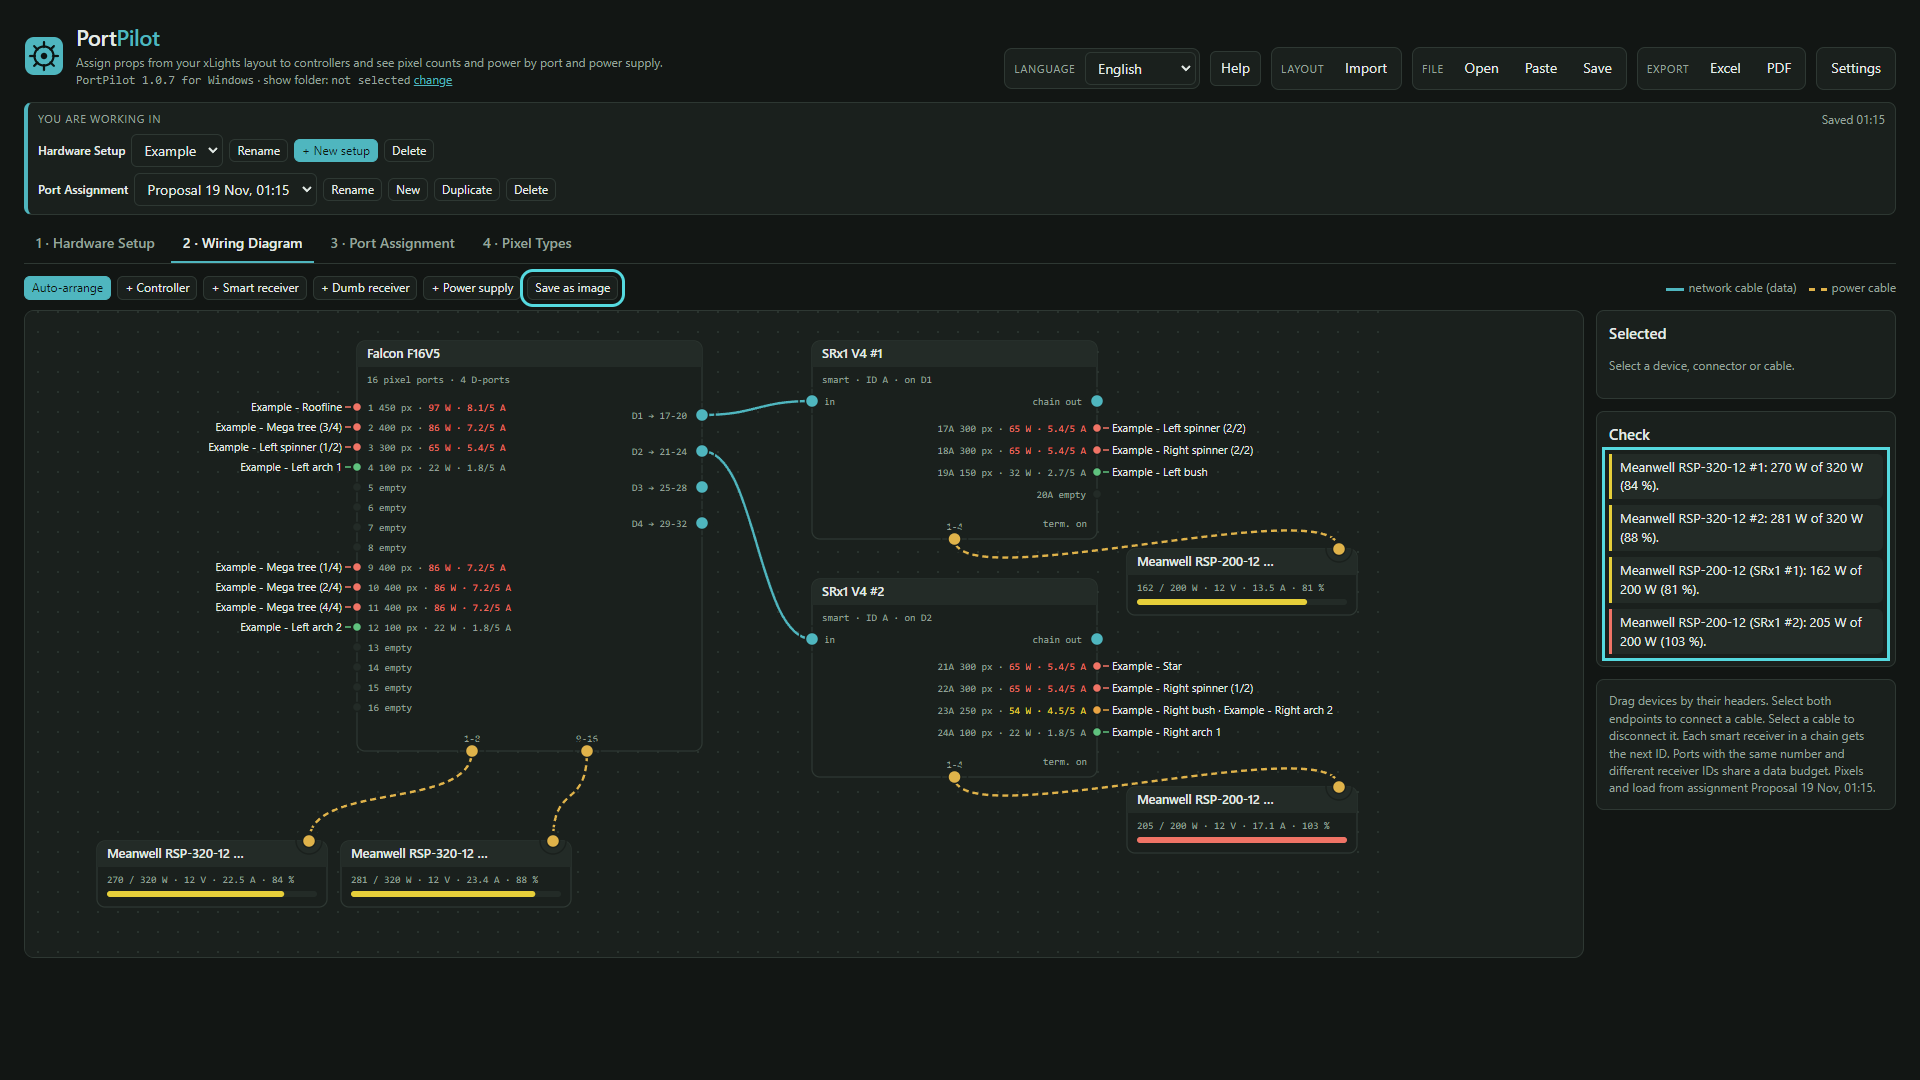
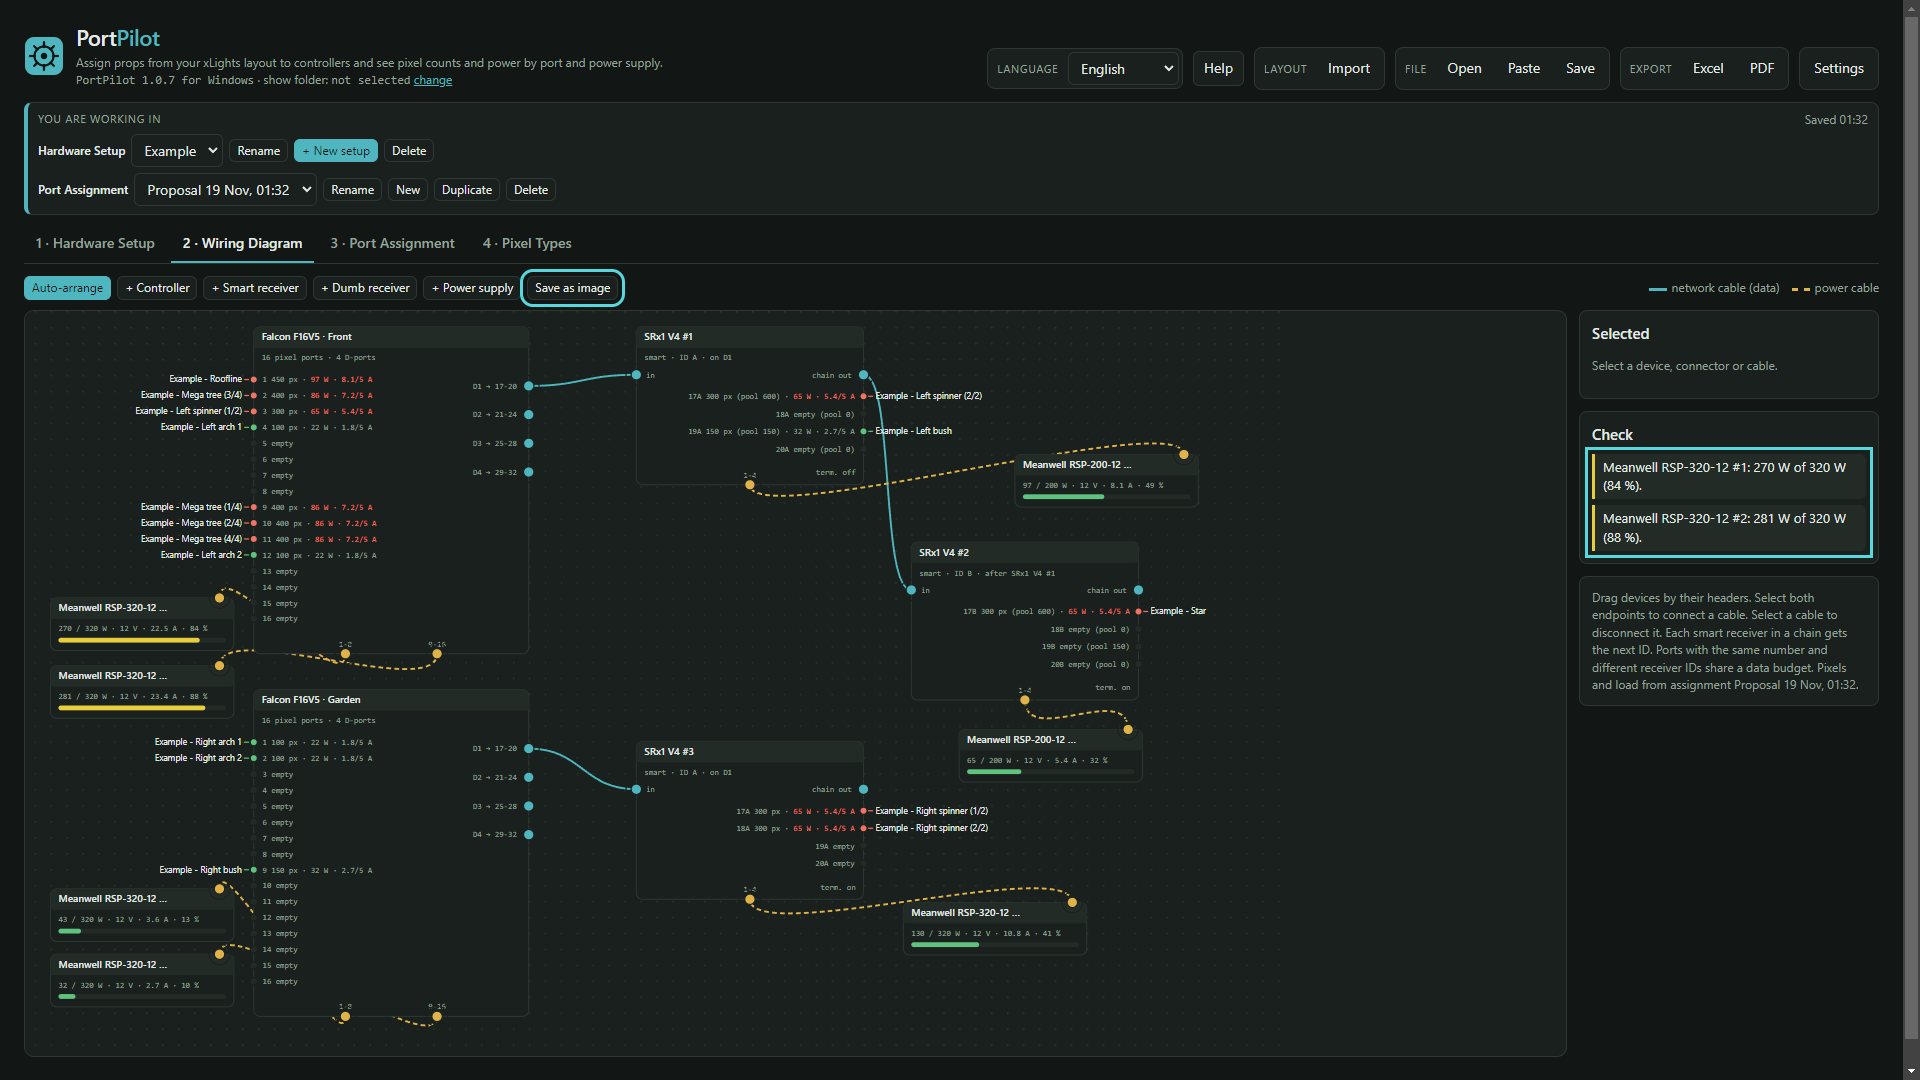
Show the wiring diagram and field exports

diff --git a/docs/quick-start.md b/docs/quick-start.md
@@ -7,7 +7,7 @@
 3. Under **Hardware Setup**, review the controllers and add your receivers and power supplies. Set the power input ranges and voltages to match your wiring. Choose the same frame rate you use in xLights under **Settings**.
 4. Use **Layout → Import** to read your props. Review the port assignments imported from xLights. Under **Pixel Types**, assign the right type to each prop or enter a fixed wattage for a device such as a floodlight.
 5. Under **Port Assignment**, drag props to their intended ports. You can also use **Generate proposal** to create another assignment for comparison.
-6. Review the messages and the loads per port and power supply. Compare any estimates with your pixel and hardware specifications. Export to **Excel**, **PDF**, or **Wiring Diagram → Save as image**.
+6. Review the messages and the loads per port and power supply. Compare any estimates with your pixel and hardware specifications. Print the **PDF** or open it on a tablet to look up port assignments while wiring outside. Export to **Excel** for a sortable table or use **Wiring Diagram → Save as image** to take the data and power connections with you.
 7. Apply the wiring plan in the xLights Controller Visualizer and check it against the physical show before uploading the controller configuration.
 
 For a first look, choose **Example** when creating a setup. Then open **Port Assignment → Try with sample props** to load the sample layout.

diff --git a/README.md b/README.md
@@ -19,6 +19,18 @@
 
 PortPilot reads your show files as input. Your planning work stays in PortPilot.
 
+## Interactive wiring diagram
+
+Follow data and power cables from controllers to smart receivers, power supplies and the props on each port. The Node-RED-style view makes it easy to trace a receiver chain and spot load warnings before heading outside.
+
+![PortPilot wiring diagram with two controllers, three smart receivers, power supplies and assigned props](docs/wiring-diagram.png)
+
+*Sample layout with arches, spinners, a roofline and a mega tree. The outlines mark the image export and the Check panel.*
+
+### Take the plan outside
+
+Print the **PDF** or open it on a tablet to check which prop goes on which port while connecting the display. Use **Excel** for a sortable copy of the assignment, or choose **Wiring Diagram → Save as image** for a visual reference showing the data and power connections.
+
 ## Get PortPilot
 
 Download from [the latest stable release][download].

diff --git a/docs/examples.md b/docs/examples.md
@@ -12,7 +12,7 @@ Add the controller and receivers under **Hardware Setup**. Connect the first rec
 
 ![English example wiring diagram with the export button and wiring checks outlined](wiring-diagram.png)
 
-*The built-in example shows two receiver connections. The outlines mark Save as image and the Check panel, which flags power supplies that need review.*
+*This sample layout uses two controllers and three smart receivers. One receiver is daisy-chained and another has its own differential connection to the garden controller. The outlines mark Save as image and the Check panel, which flags power supplies that need review.*
 
 ## Account for a floodlight
 
